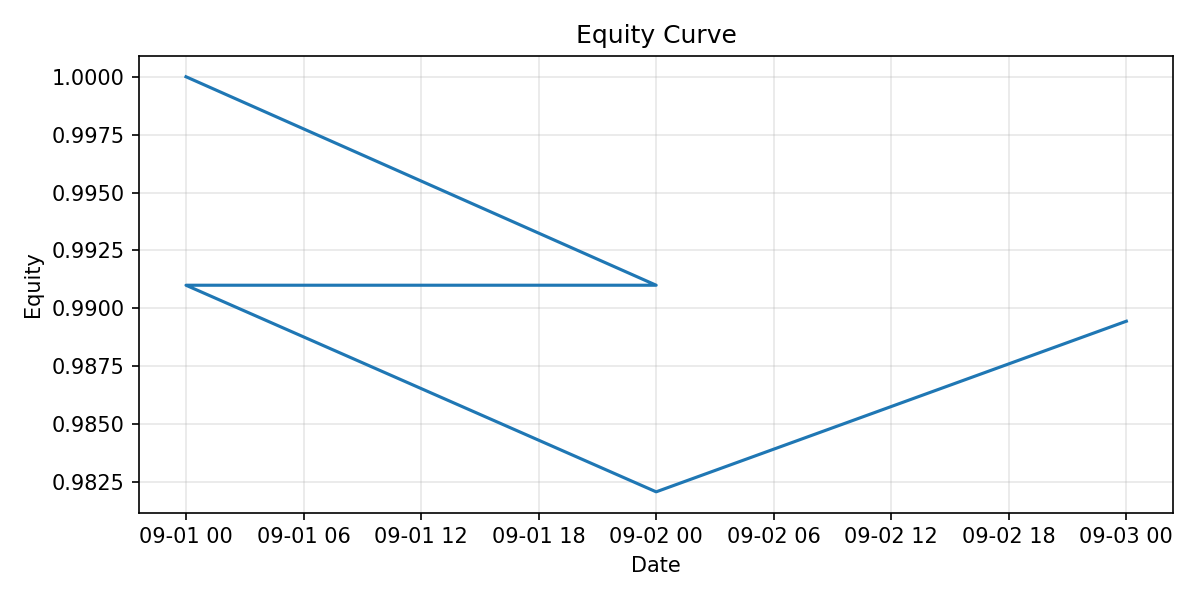
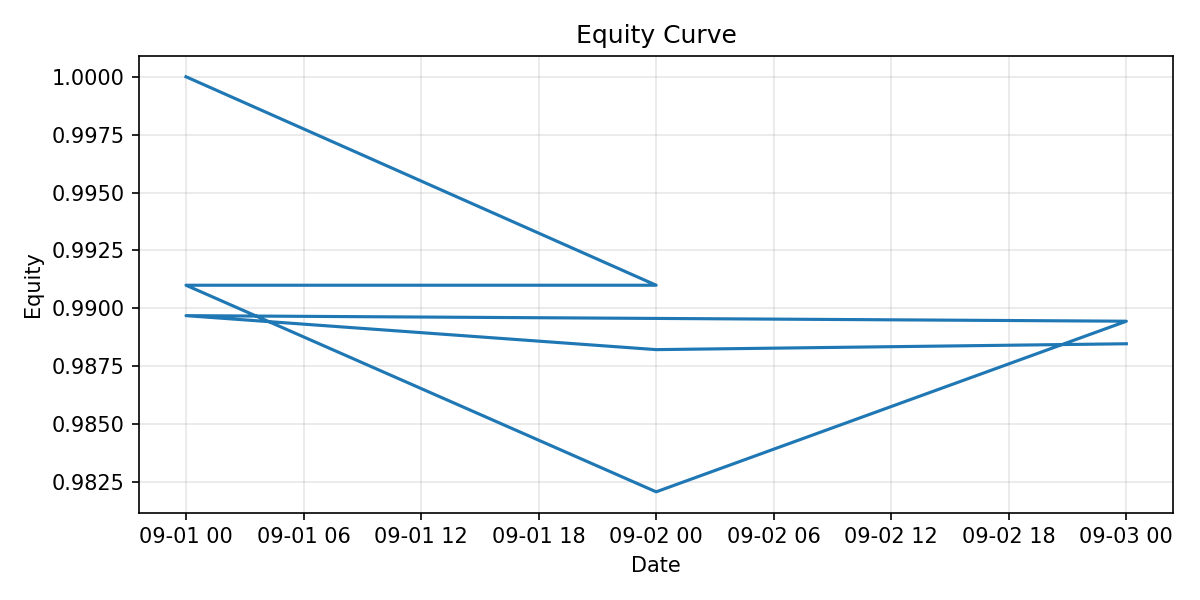
sync: one-shot

Changed region(s): [[0.1542, 0.51, 0.925, 0.57], [0.4625, 0.57, 0.9558, 0.6]]

diff --git a/README.md b/README.md
@@ -2,6 +2,7 @@
 
 Gates: [1:PASS][2:PASS][3:PASS]
 
-## Performance
+## Performance (net of trading costs)
 
 ![Equity curve](docs/equity.png)
+
